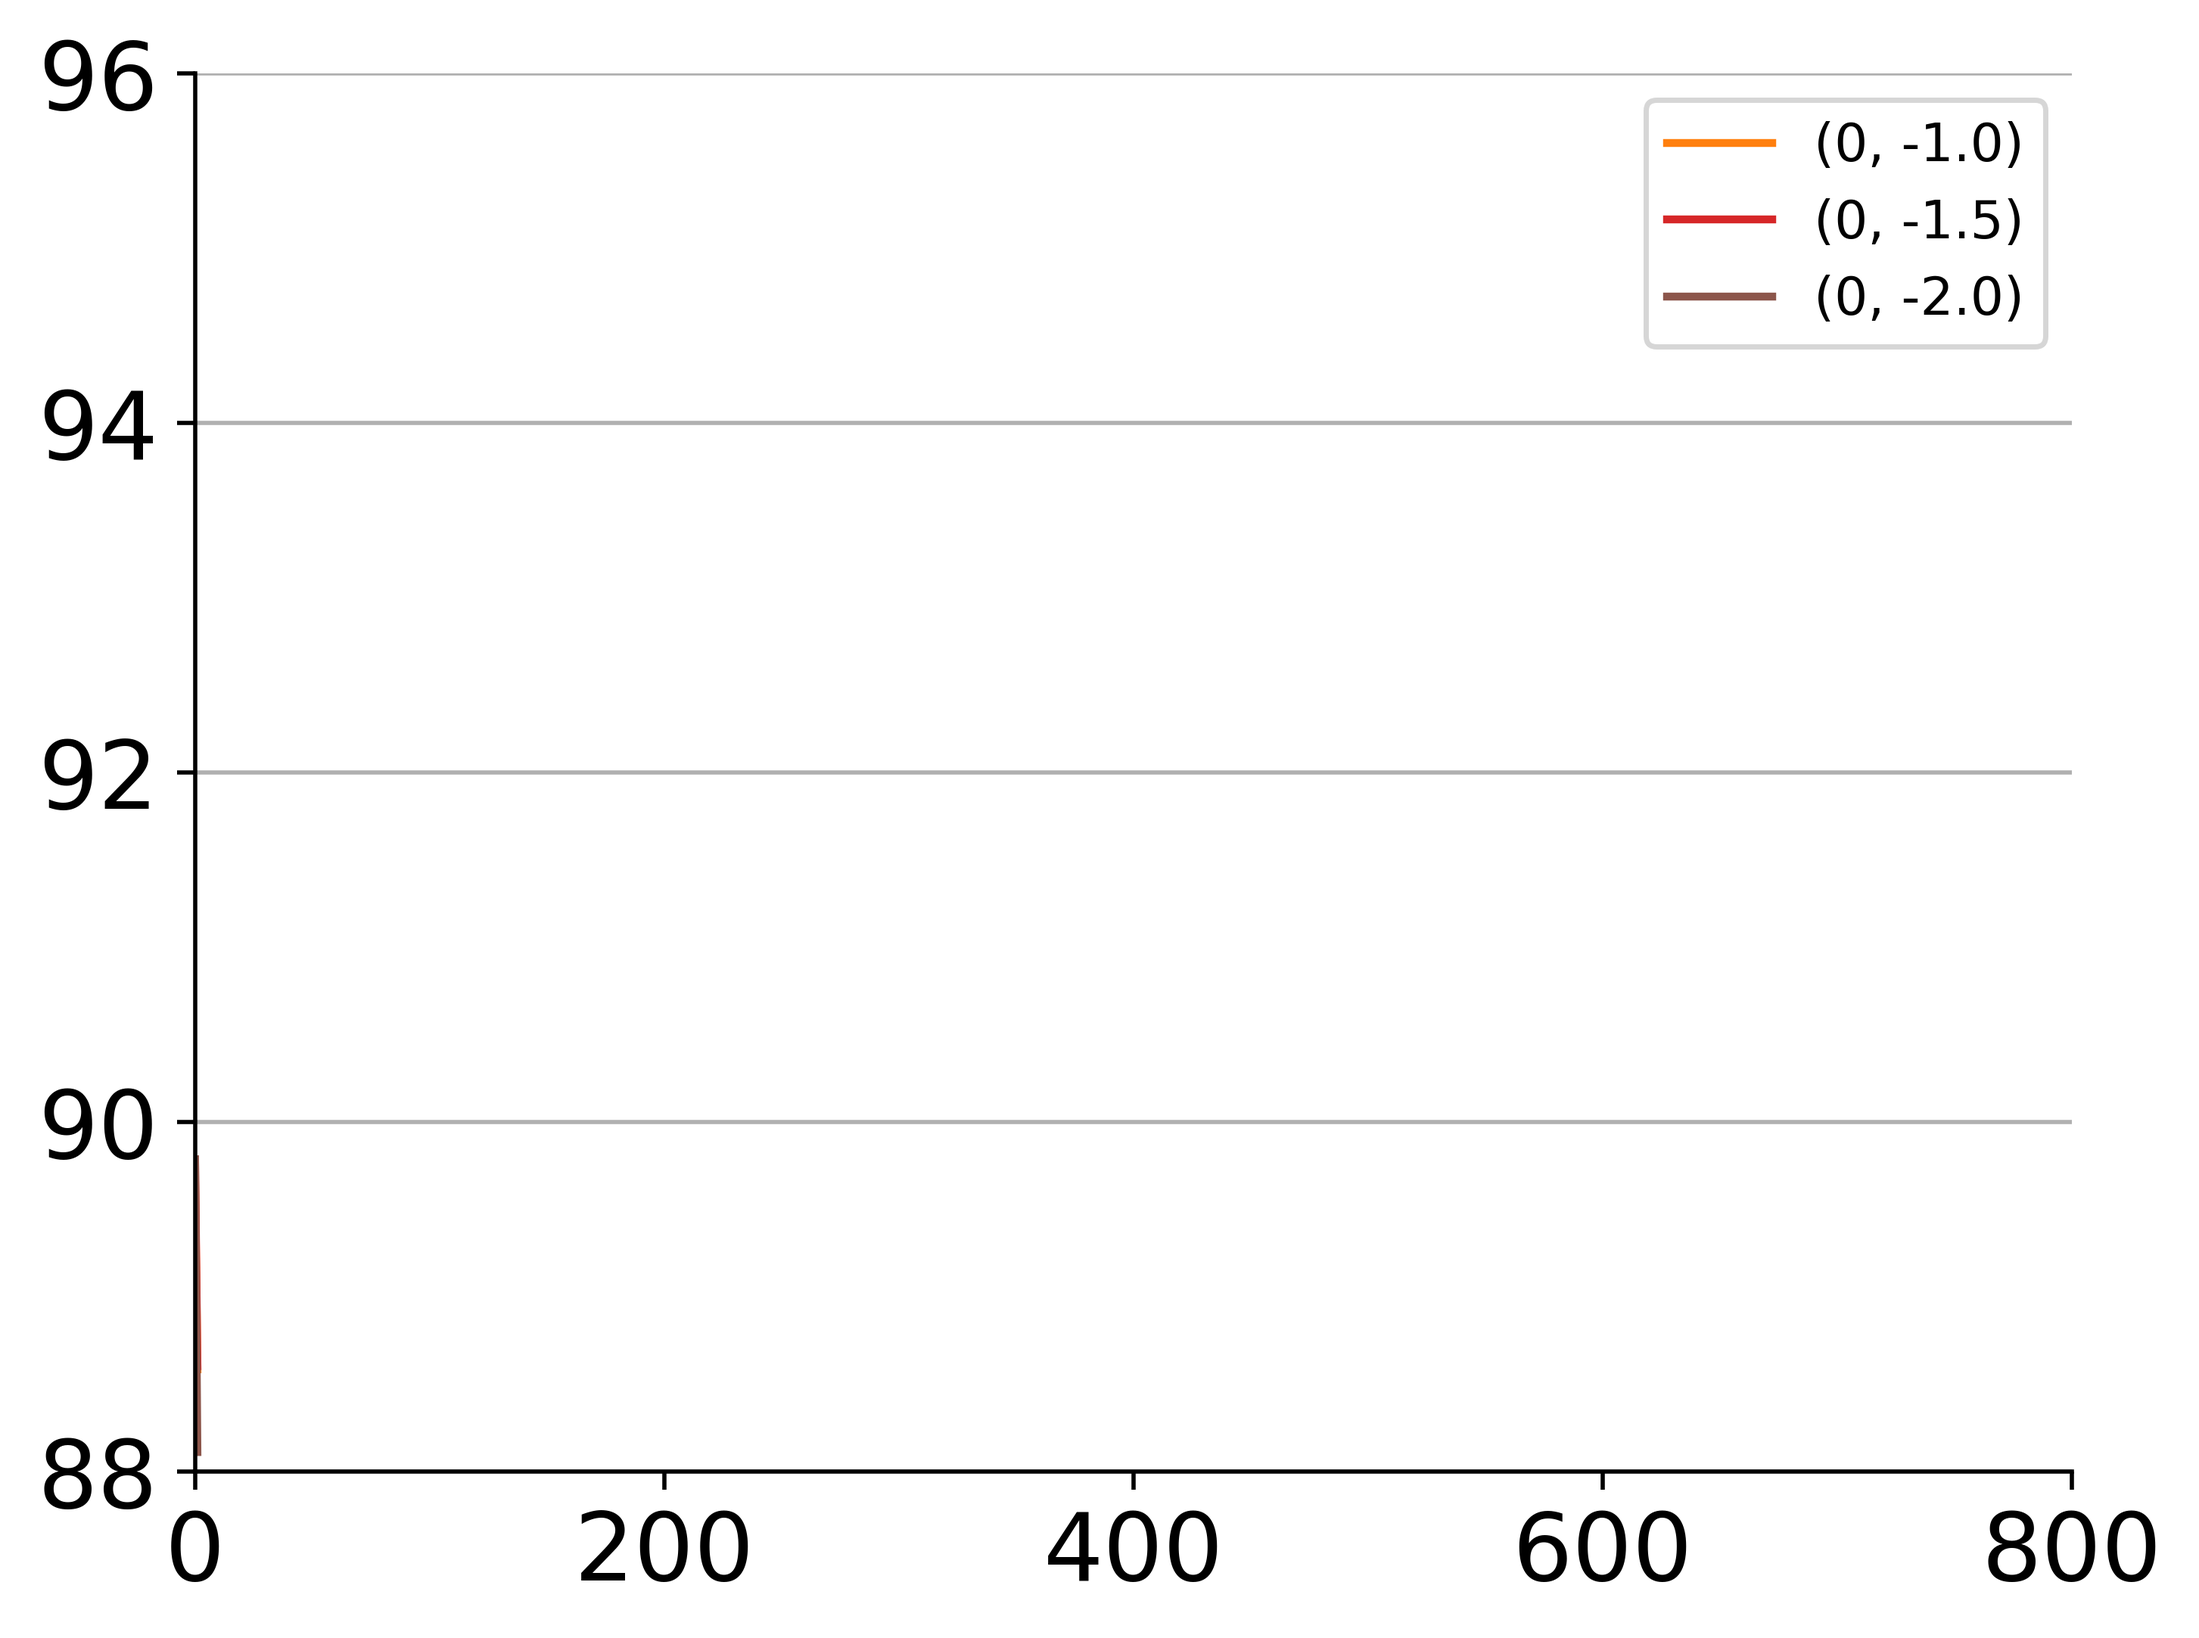
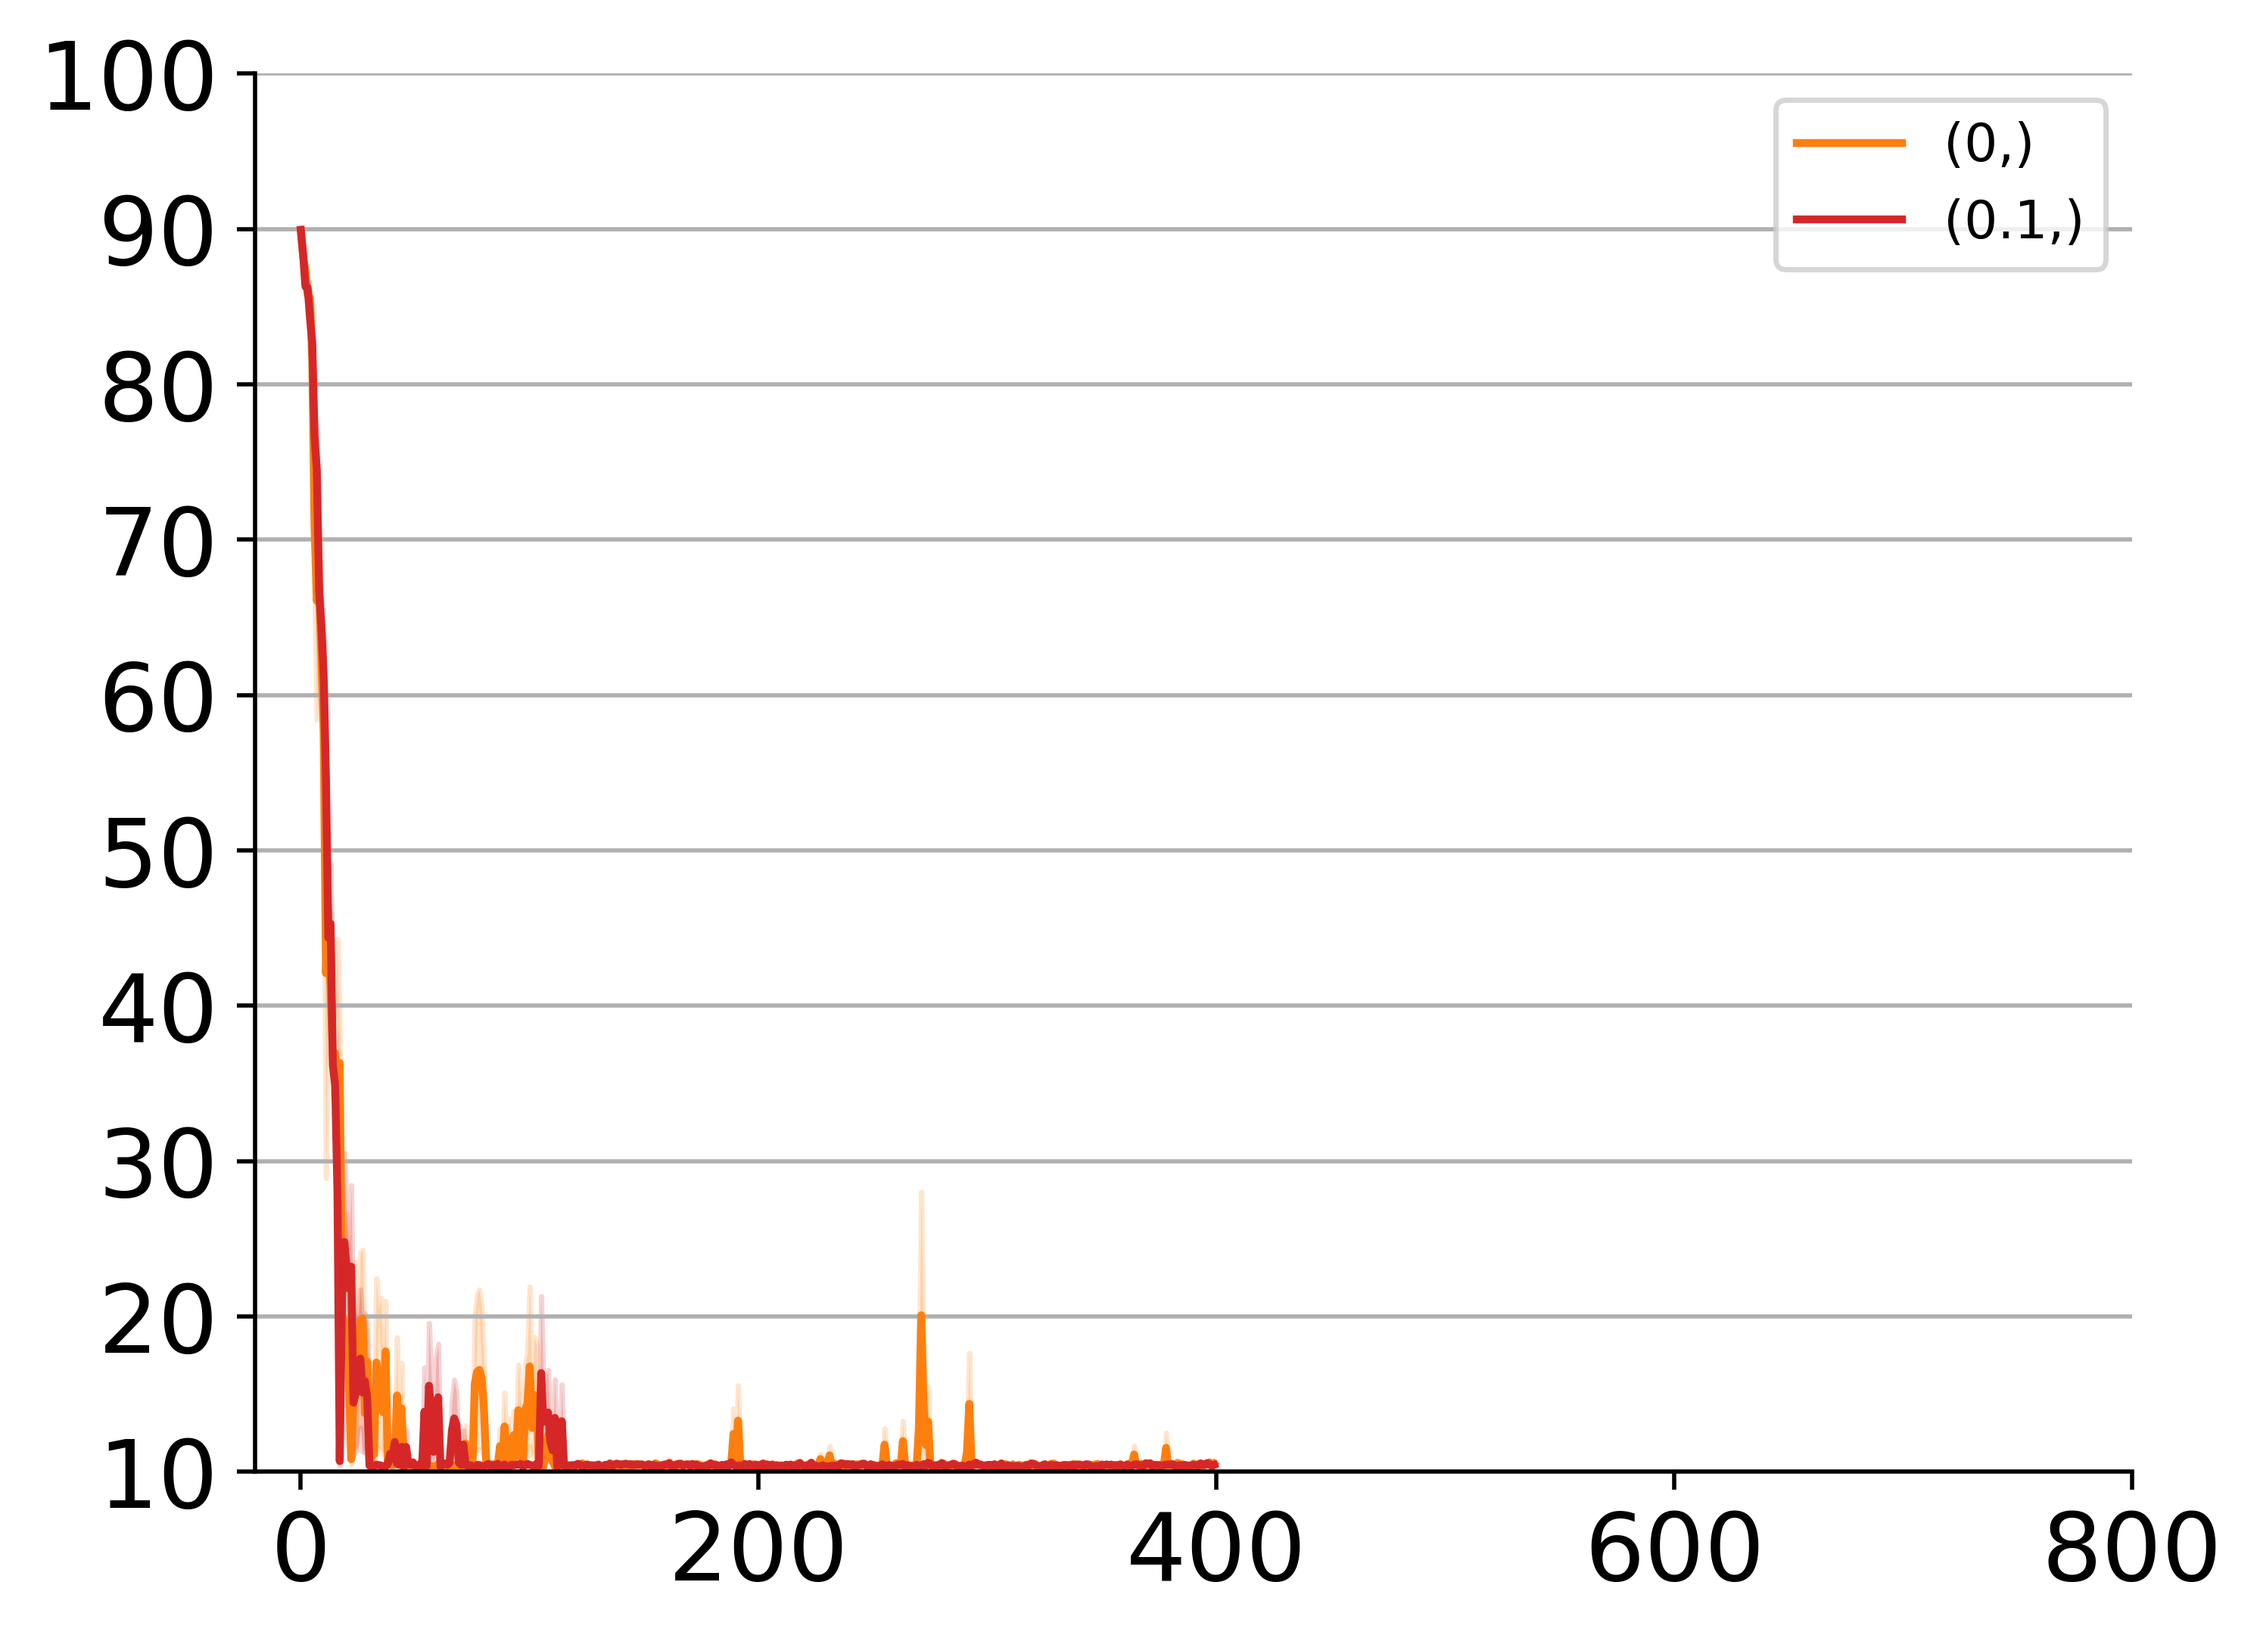
primordial experiments

diff --git a/lop/permuted_mnist/plots/bp_metrics.py b/lop/permuted_mnist/plots/bp_metrics.py
@@ -10,7 +10,6 @@ def add_cfg_utility_histogram(
         cfg='',
         setting_idx=0,
         num_runs=30,
-        iteration=-1,
         layer=None
 ):
 
@@ -28,19 +27,14 @@ def add_cfg_utility_histogram(
 
         utils = data['utils']
 
+
         # utils:
-        # (iterations, layers, neurons)
-
-        if iteration == -1:
-            selected = utils[-1]
-        elif isinstance(iteration, list):
-            selected = utils[iteration]
-        else:
-            selected = utils[iteration]
-
+        # (layers, neurons)
 
         if layer is not None:
-            selected = selected[:, layer] if selected.ndim == 3 else selected[layer]
+            selected = utils[layer]
+        else:
+            selected = utils
 
 
         selected = selected.reshape(-1)
@@ -48,7 +42,6 @@ def add_cfg_utility_histogram(
         distributions.append(selected.numpy())
 
 
-    # combine runs for this hyperparameter setting
     return np.concatenate(distributions)
 
 def add_cfg_performance(cfg='', setting_idx=0, m=2*10*1000, num_runs=30, metric='accuracy'):
@@ -82,12 +75,6 @@ def main(arguments):
                             default='../cfg/bp/std_net.json')
     parser.add_argument('--metric', help="Specify the metric you want to plot, the options are: accuracy, weight,"
                                          " dead_neurons, and effective_rank", type=str, default='accuracy')
-    parser.add_argument(
-        '--utility_iteration',
-        type=int,
-        default=-1,
-        help='iteration to plot, -1 = last iteration'
-    )
 
     parser.add_argument(
         '--utility_layer',
@@ -110,13 +97,11 @@ def main(arguments):
                 cfg=cfg_file,
                 setting_idx=i,
                 num_runs=params['num_runs'],
-                iteration=args.utility_iteration,
                 layer=args.utility_layer
             )
 
             generate_utility_histogram(
                 distributions=[distribution],
-                labels=[param_settings[i]],
                 bins=100,
                 caption=f'Utility distribution {param_settings[i]}',
                 filename=f'utility_hist_{i}.png'
@@ -132,14 +117,17 @@ def main(arguments):
     for i in indices:
         performances.append(add_cfg_performance(cfg=cfg_file, setting_idx=i, m=m, num_runs=num_runs, metric=metric))
 
-    yticks = {'weight': [0, 0.02, 0.04, 0.06, 0.08, 0.10], 'accuracy': [88, 90, 92, 94, 96],
+    yticks = {'weight': [0, 0.02, 0.04, 0.06, 0.08, 0.10], 'accuracy': [10, 20, 30, 40, 50, 60, 70, 80, 90, 100],
               'dead_neurons': [0, 10, 20, 30], 'effective_rank': [0, 10, 20, 30, 40, 50]}[metric]
+    # yticks = {'weight': [0, 0.02, 0.04, 0.06, 0.08, 0.10], 'accuracy': [88, 90, 92, 94, 96],
+    #           'dead_neurons': [0, 10, 20, 30], 'effective_rank': [0, 10, 20, 30, 40, 50]}[metric]
     generate_online_performance_plot(
         performances=performances,
         colors=['C1', 'C3', 'C5', 'C2', 'C4', 'C6'],
         yticks=yticks,
         xticks=[0, 200*m, 400*m, 600*m, 800*m],
         xticks_labels=['0', '200', '400', '600', '800'],
+        # xticks_labels=['0', '100', '200', '300','400'],
         m=m,
         fontsize=18,
         labels=param_settings,
